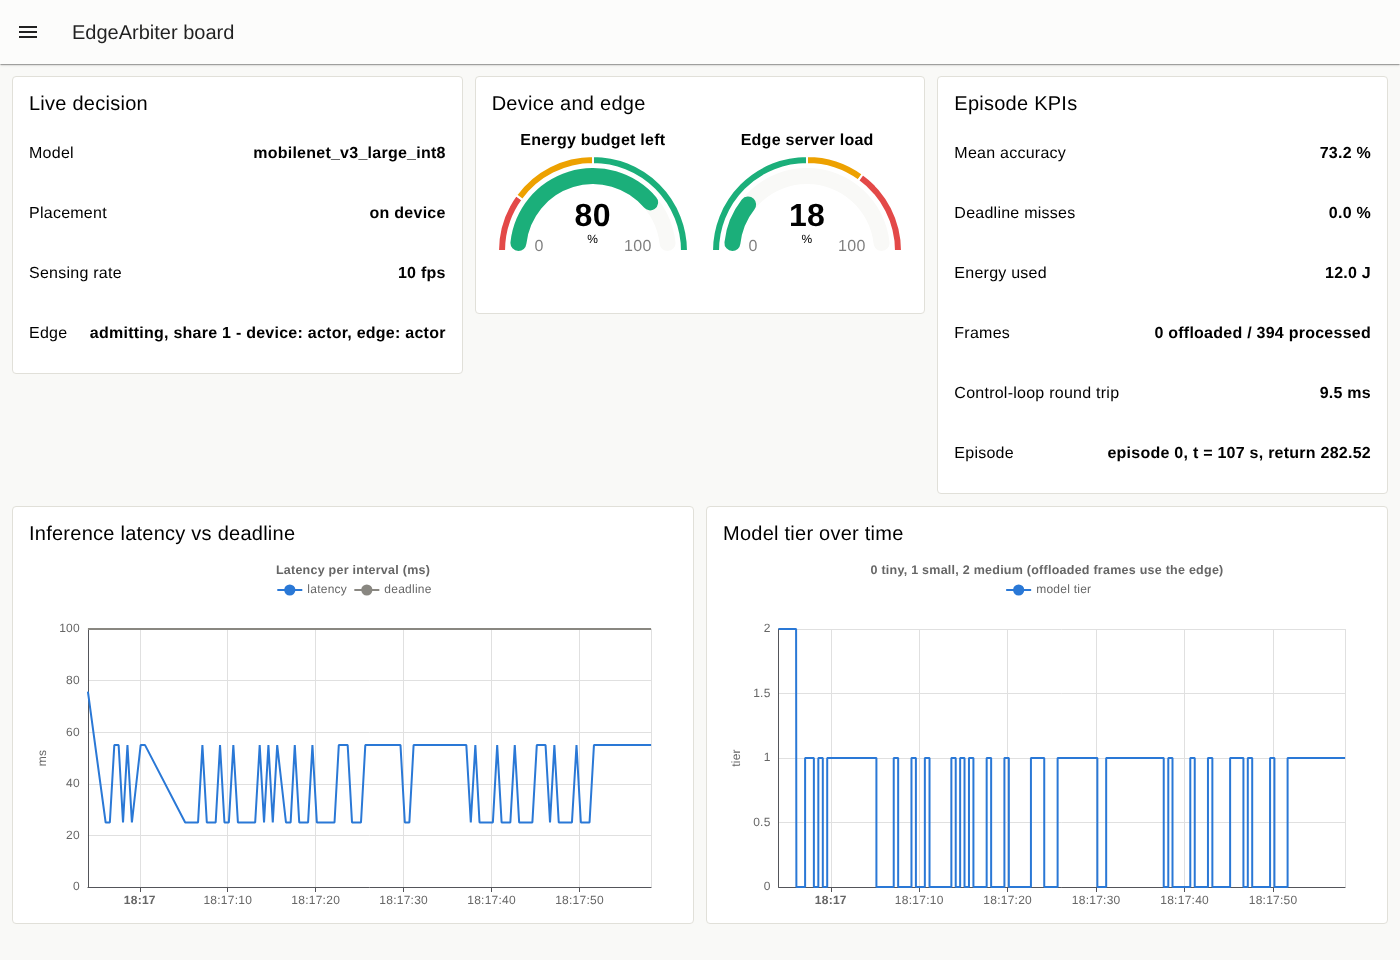
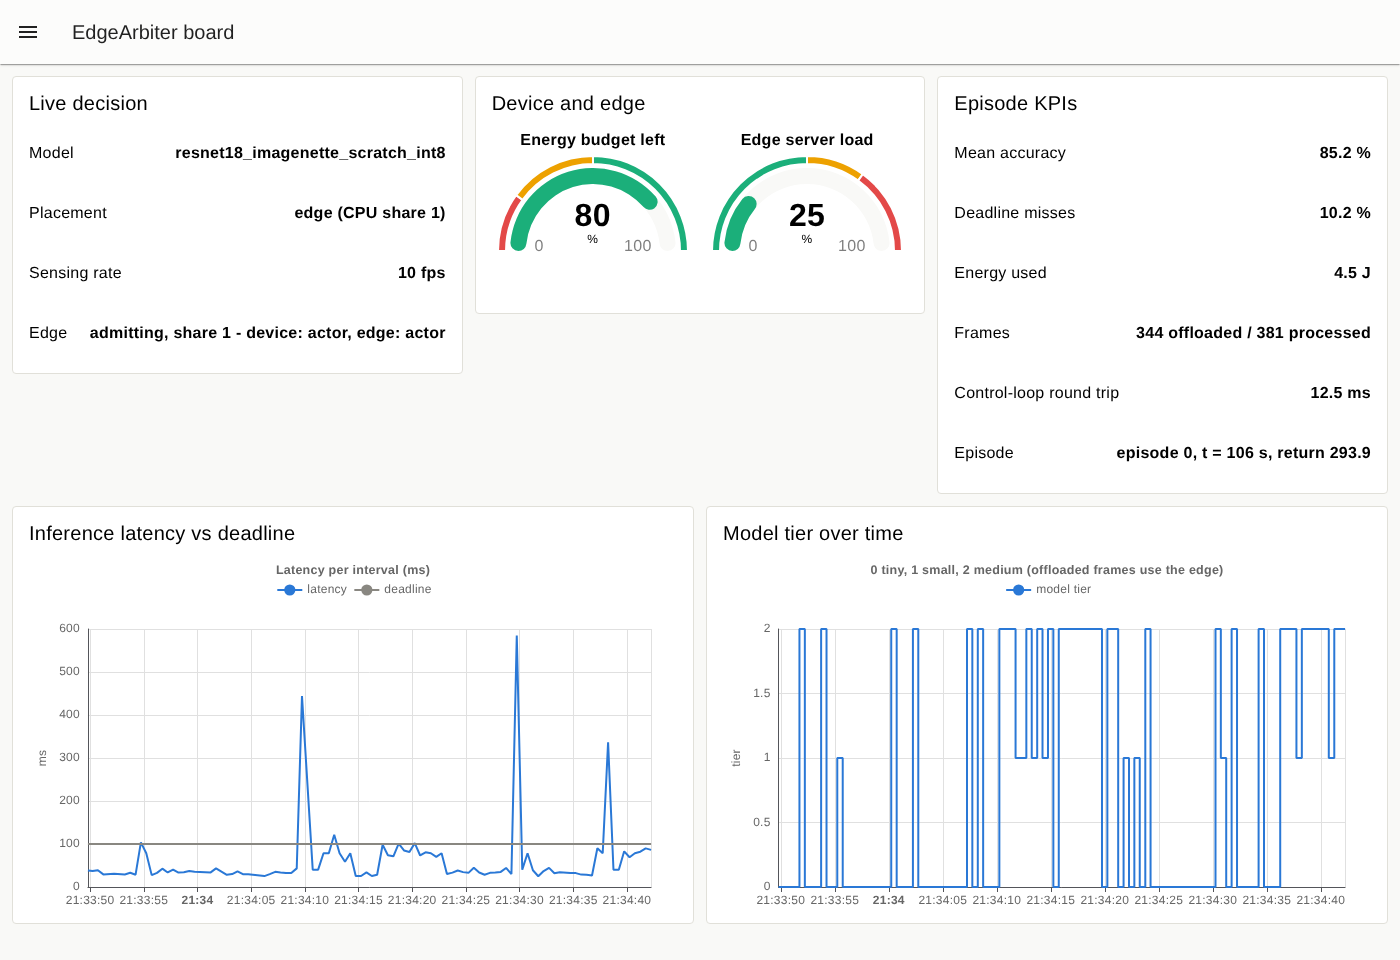
Board screenshot with the measured-study actors; node --battery-j
The virtual node can run with the energy budget a study was trained with
(--battery-j). New board: MAPPO actors trained on the measured cost table for
energy_constrained (22.8 J): ResNet-18 INT8 offloaded while the link is good,
150/150 decisions answered through Node-RED, mean round trip 12.7 ms.

Claude-Session: https://claude.ai/code/session_01EL8QWLWejBot3y9GXuXEAV

diff --git a/edgearbiter/virtual_node.py b/edgearbiter/virtual_node.py
@@ -25,6 +25,7 @@ import argparse
 import json
 import threading
 import time
+from dataclasses import replace
 from typing import Callable, Optional
 
 from .costs import CostTable
@@ -198,11 +199,16 @@ def main():
     ap.add_argument("--steps", type=int, default=None, help="stop after this many intervals (default: run forever)")
     ap.add_argument("--seed", type=int, default=0)
     ap.add_argument("--scenario", choices=list(SCENARIOS), default="default")
+    ap.add_argument("--battery-j", type=float, default=None,
+                    help="energy budget per episode instead of the scenario's (e.g. the one a study was trained with)")
     ap.add_argument("--api", default=None, help="call the policy service directly, e.g. http://localhost:8000")
     ap.add_argument("--cost-table", default=None)
     args = ap.parse_args()
+    cfg = SCENARIOS[args.scenario]
+    if args.battery_j:
+        cfg = replace(cfg, battery_mj=1000.0 * args.battery_j)
     node = VirtualNode(args.broker or None, args.port, args.topic, args.node_id, args.interval, args.timeout, args.seed,
-                       CostTable.load(args.cost_table), SCENARIOS[args.scenario], api=args.api)
+                       CostTable.load(args.cost_table), cfg, api=args.api)
     print(f"[virtual-node] {args.node_id}: broker={args.broker or '-'} api={args.api or '-'} interval={args.interval}s")
     try:
         print(json.dumps(node.run(args.steps), indent=1))
